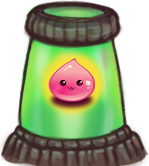
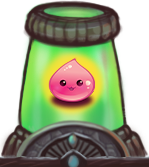
Updated poring machine sprites.

diff --git a/src/css/App.css b/src/css/App.css
@@ -84,8 +84,8 @@ button {
     height: 165px;
     width: 149px;
     position: absolute;
-    top: 543px;
-    left: 559px;
+    top: 541px;
+    left: 564px;
     cursor: pointer;
     background: transparent url(../img/empty_machine.png) no-repeat;
     -webkit-transition: background-image 0.4s ease-in-out;
